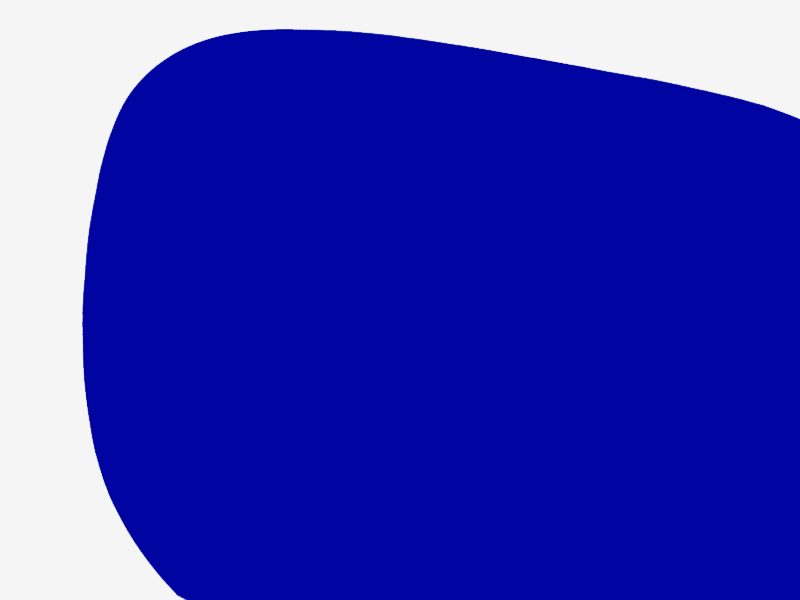
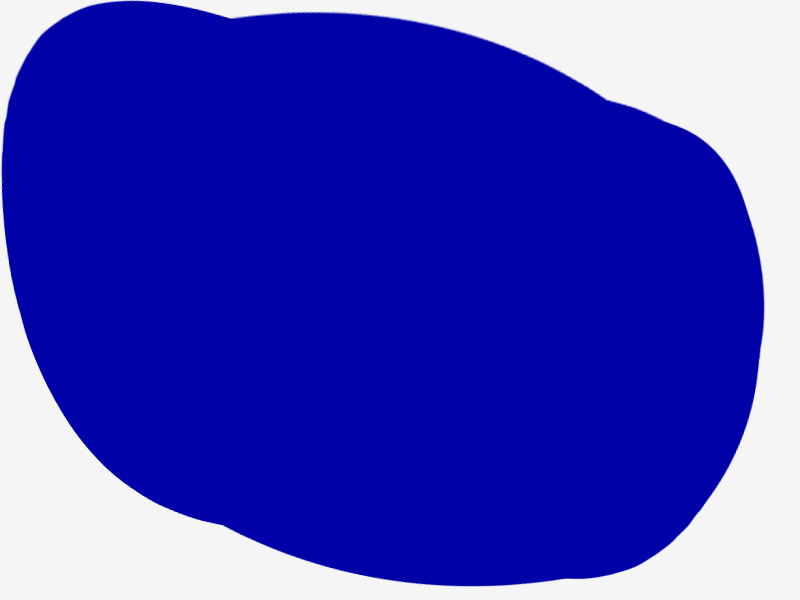
Новые фоны

Changed region(s): [[0.125, 0.09, 1.0, 1.0], [0.0, 0.0, 0.6562, 0.78]]

diff --git a/index.html b/index.html
@@ -115,7 +115,7 @@
           <div class="row">
             <div class="large-6 columns">
               <div class="work-item">
-                <img src="images/portfolio/background/green2.jpg" alt="RAH" class="mobile">
+                <img src="images/portfolio/background/green.jpg" alt="RAH" class="mobile">
                 <h3><a href="case-study.html">RAH</a></h3>
                 <a href="case-study.html" class="fly-portfolio first">
                   <img src="images/portfolio/burger-note12.png" alt="RAH" class="note">
@@ -124,10 +124,10 @@
             </div>
             <div class="large-6 columns">
               <div class="work-item">
-                <img src="images/portfolio/background/blue1.jpg" alt="RAH" class="mobile">
+                <img src="images/portfolio/background/blue.jpg" alt="RAH" class="mobile">
                 <h3><a href="case-study.html">RAH</a></h3>
                 <a href="case-study.html" class="fly-portfolio first">
-                  <img src="images/portfolio/burger-note.png" alt="RAH" class="note">
+                  <img src="images/portfolio/burger-note13.png" alt="RAH" class="note">
                 </a>
               </div><!--/.work-item-->
             </div>
